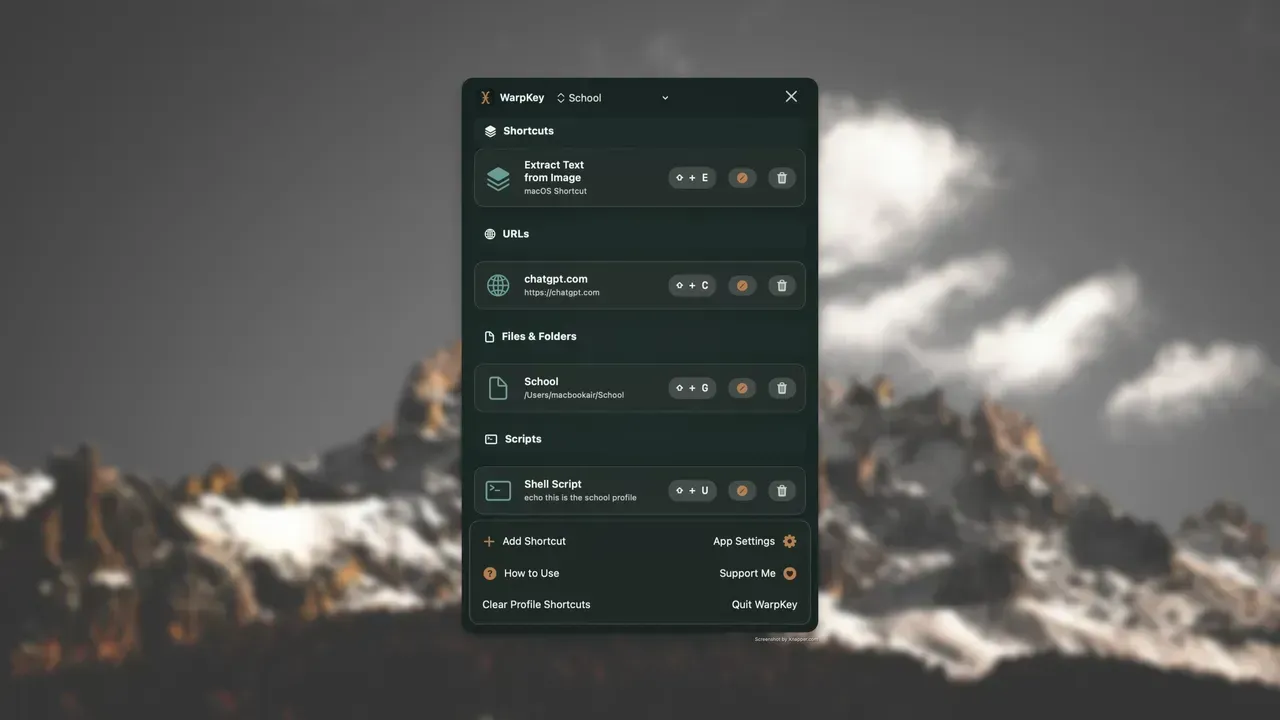
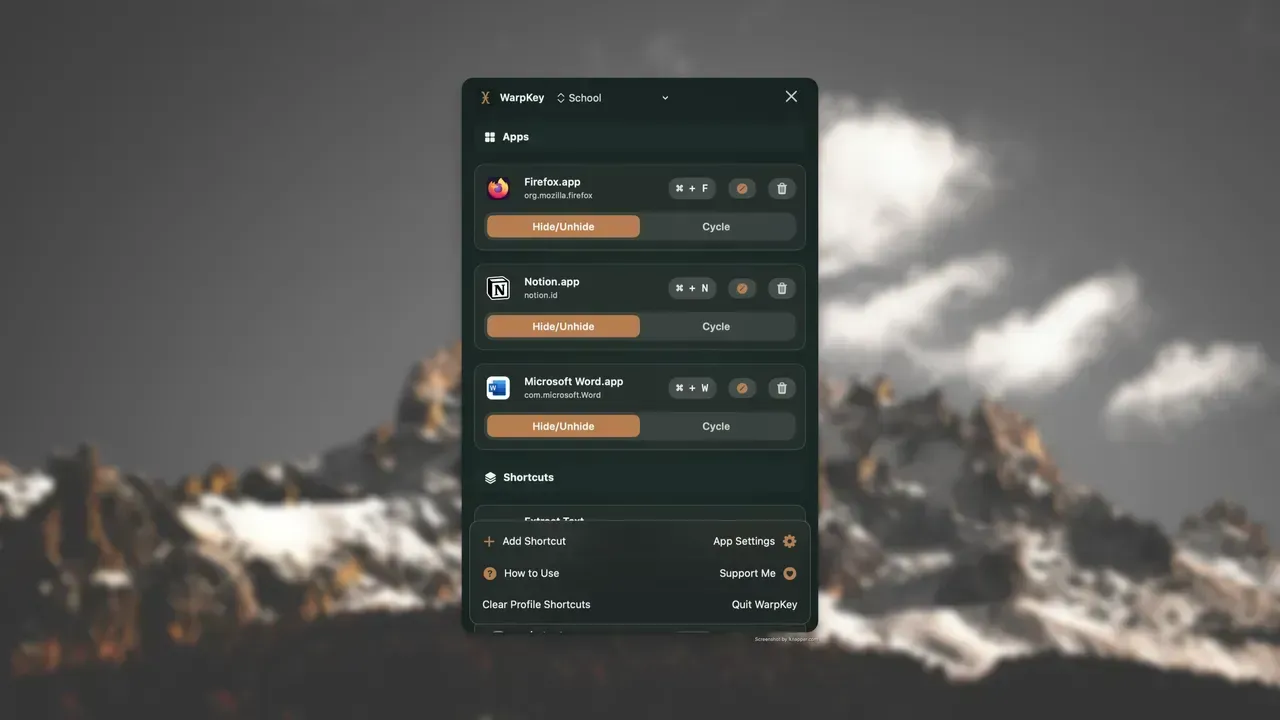
Swap WarpKey photos 1 and 5

diff --git a/Generator/assets/style.css b/Generator/assets/style.css
@@ -581,8 +581,8 @@ html[lang="tr"] .name-last {
     display: flex;
     flex-direction: column;
 }
-.content-container > .section-title { flex-shrink: 0; align-self: stretch; width: 100%; }
-.content-container > .grid-container { margin: auto 0; }
+.content-container > .section-title { flex-shrink: 0; align-self: stretch; width: 100%; margin-bottom: 35px; }
+.content-container > .grid-container { margin: auto 0; align-self: stretch; }
 
 .content-container::-webkit-scrollbar {
     width: 4px;
@@ -656,13 +656,13 @@ html[lang="tr"] .name-last {
     /* Horizontal Center ONLY */
     justify-content: center;
 
-    /* Vertical: Start from the top (Don't center vertically) */
-    align-items: flex-start;
-    align-content: flex-start;
+    /* Vertical: Center the grid contents */
+    align-items: center;
+    align-content: center;
 
     gap: 20px;
     width: 100%;
-    padding-bottom: 20px; /* Space at bottom for scrolling */
+    padding: 0;
 }
 
 .grid-card {
@@ -681,6 +681,7 @@ html[lang="tr"] .name-last {
     transition: transform 0.2s ease;
     cursor: pointer;
     user-select: none;
+    border-radius: var(--radius);
 }
 
 .grid-card:hover {
@@ -724,7 +725,7 @@ html[lang="tr"] .name-last {
     font-family: "Libre Baskerville", serif;
     font-size: clamp(24px, 2.5vw, 400px);
     text-align: center;
-    margin: 36px 0 30px 0;
+    margin: 0 0 30px 0;
 }
 .email-wrapper {
     font-size: clamp(16px, 1.2vw, 20px);
@@ -776,7 +777,7 @@ html[lang="tr"] .name-last {
     position: relative;
     overflow: hidden;
     box-shadow: 0 0 50px rgba(0, 0, 0, 0.8);
-    border-radius: var(--radius);
+    border-radius: 0;
 }
 
 .modal-nav-sidebar {
@@ -791,6 +792,7 @@ html[lang="tr"] .name-last {
     transition: all 0.2s ease;
     z-index: 1002;
     gap: 40px;
+    border-radius: var(--radius);
 }
 
 .modal-nav-sidebar:hover {
@@ -799,9 +801,11 @@ html[lang="tr"] .name-last {
 }
 .modal-nav-sidebar.left {
     border-right: none;
+    border-radius: var(--radius) 0 0 var(--radius);
 }
 .modal-nav-sidebar.right {
     border-left: none;
+    border-radius: 0 var(--radius) var(--radius) 0;
 }
 .sb-text-wrapper {
     display: flex;
@@ -848,6 +852,7 @@ html[lang="tr"] .name-last {
     justify-content: center;
     cursor: none;
     overflow: hidden;
+}
     touch-action: none;
 }
 
